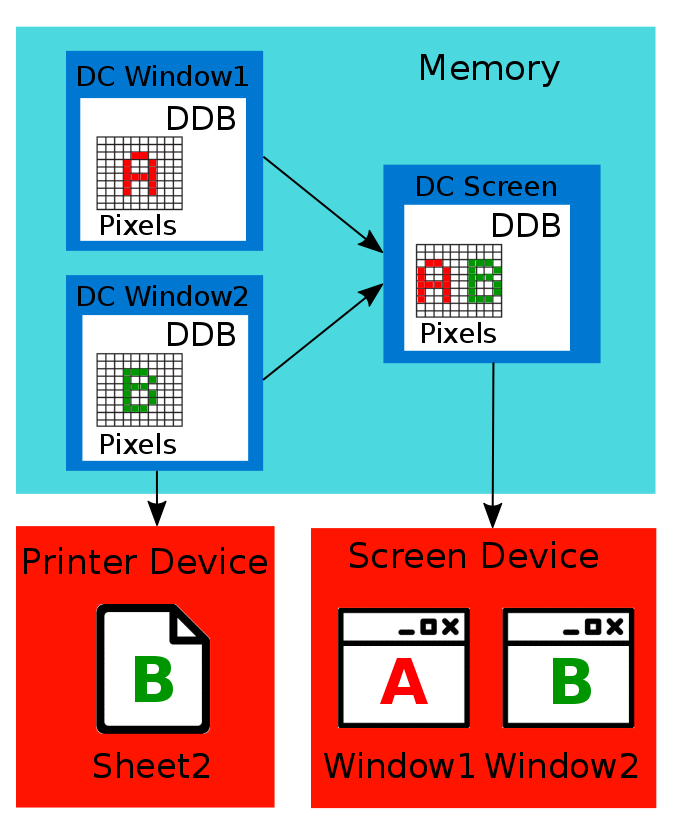
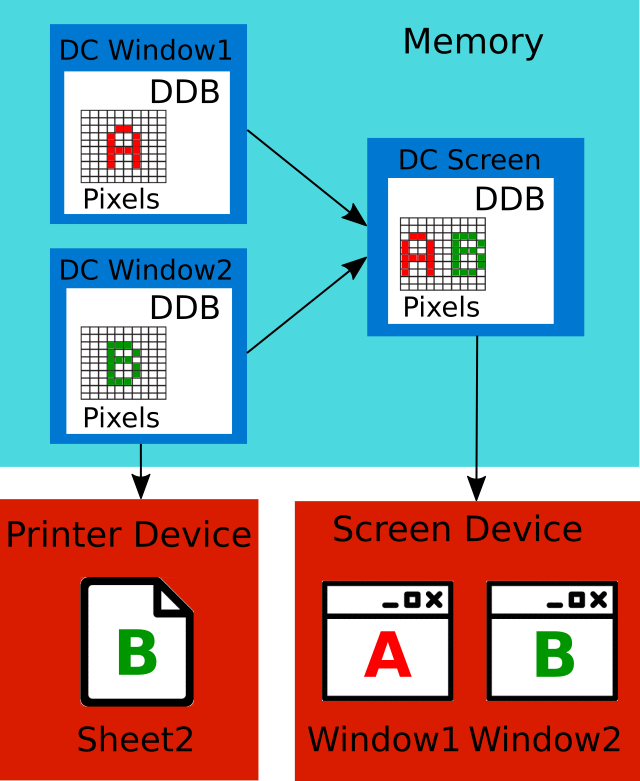
- Fix brightness of red color on schemes - Minor fixes in the "Process Memory Analyzing" chapter

diff --git a/InGameBots/process-memory-analyzing.md b/InGameBots/process-memory-analyzing.md
@@ -10,9 +10,11 @@ This is a scheme with components of a typical Windows process:
 
 ![Process Scheme](process-scheme.png)
 
-You can see that typical Windows process consist of several modules. EXE module exist always. It matches to the executable file that have been loaded to the memory at application launch. All Windows applications use at least one library which provides access to WinAPI functions. Compiler will link some libraries by default even if you does not use WinAPI functions explicitly in the application. This is a point where will be useful describe two types of libraries. There are dynamic-link libraries ([**DLL**](https://support.microsoft.com/en-us/kb/815065)) and static libraries. Key difference between them is a time of resolving dependencies. If executable file depends on a static library, the library should be available at compile time. Linker will produce one resulting file that contains both sources of static library and executable file. If executable file depemnds on a DLL, the DLL should be available at compile time too. But resulting file will not contain sources of the library. It will be founded and loaded in process's memory at run-time by OS. Launched application will crash if OS will not found a required DLL. This kind of loaded in the process's memory DLLs is a second type of modules.
+You can see that typical Windows process consist of several modules. EXE module exist always. It matches to the executable file that have been loaded into memory when application is launched. All Windows applications use at least one library which provides access to WinAPI functions. Compiler will link some libraries by default even if you does not use WinAPI functions explicitly in the application. Such WinAPI functions as `ExitProcess` or `VirtualQuery` are used by all applications for correct termination or process's memory management. These functions are embedded implicitly into the applications by compiler.
 
-[**Thread**](https://en.wikipedia.org/wiki/Thread_%28computing%29) is a set of instructions that can be executed separately from others in concurrent manner. Actually threads interacts between each other by shared resources such as memory. But OS is free to select which thread will be executed currently. You can see in the scheme that each module is able to contain one or more threads or do not contain threads at all. EXE module always contains a main thread which will be launched at application start by OS.
+This is a point where will be useful to describe two types of libraries. There are dynamic-link libraries ([**DLL**](https://support.microsoft.com/en-us/kb/815065)) and static libraries. Key difference between them is a time of resolving dependencies. If executable file depends on a static library, the library should be available at compile time. Linker will produce one resulting file that contains both sources of the static library and executable file. If executable file depends on a DLL, the DLL should be available at compile time too. But resulting file will not contain sources of the library. It will be founded and loaded into process's memory at run-time by OS. Launched application will crash if OS will not found the required DLL. This kind of loaded into process's memory DLLs is a second type of modules.
+
+[**Thread**](https://en.wikipedia.org/wiki/Thread_%28computing%29) is a set of instructions that can be executed separately from others in concurrent manner. Actually threads interacts between each other by shared resources such as memory. But OS is free to select which thread will be executed currently. Number of simultaneously executed theads is defined by number of CPU cores. You can see in the scheme that each module is able to contain one or more threads or do not contain threads at all. EXE module always contains a main thread which will be launched by OS at the moment of application's start.
 
 Described scheme focuses on a mechanism of application's execution. Now we will consider a memory layout of a typical Windows application.
 
